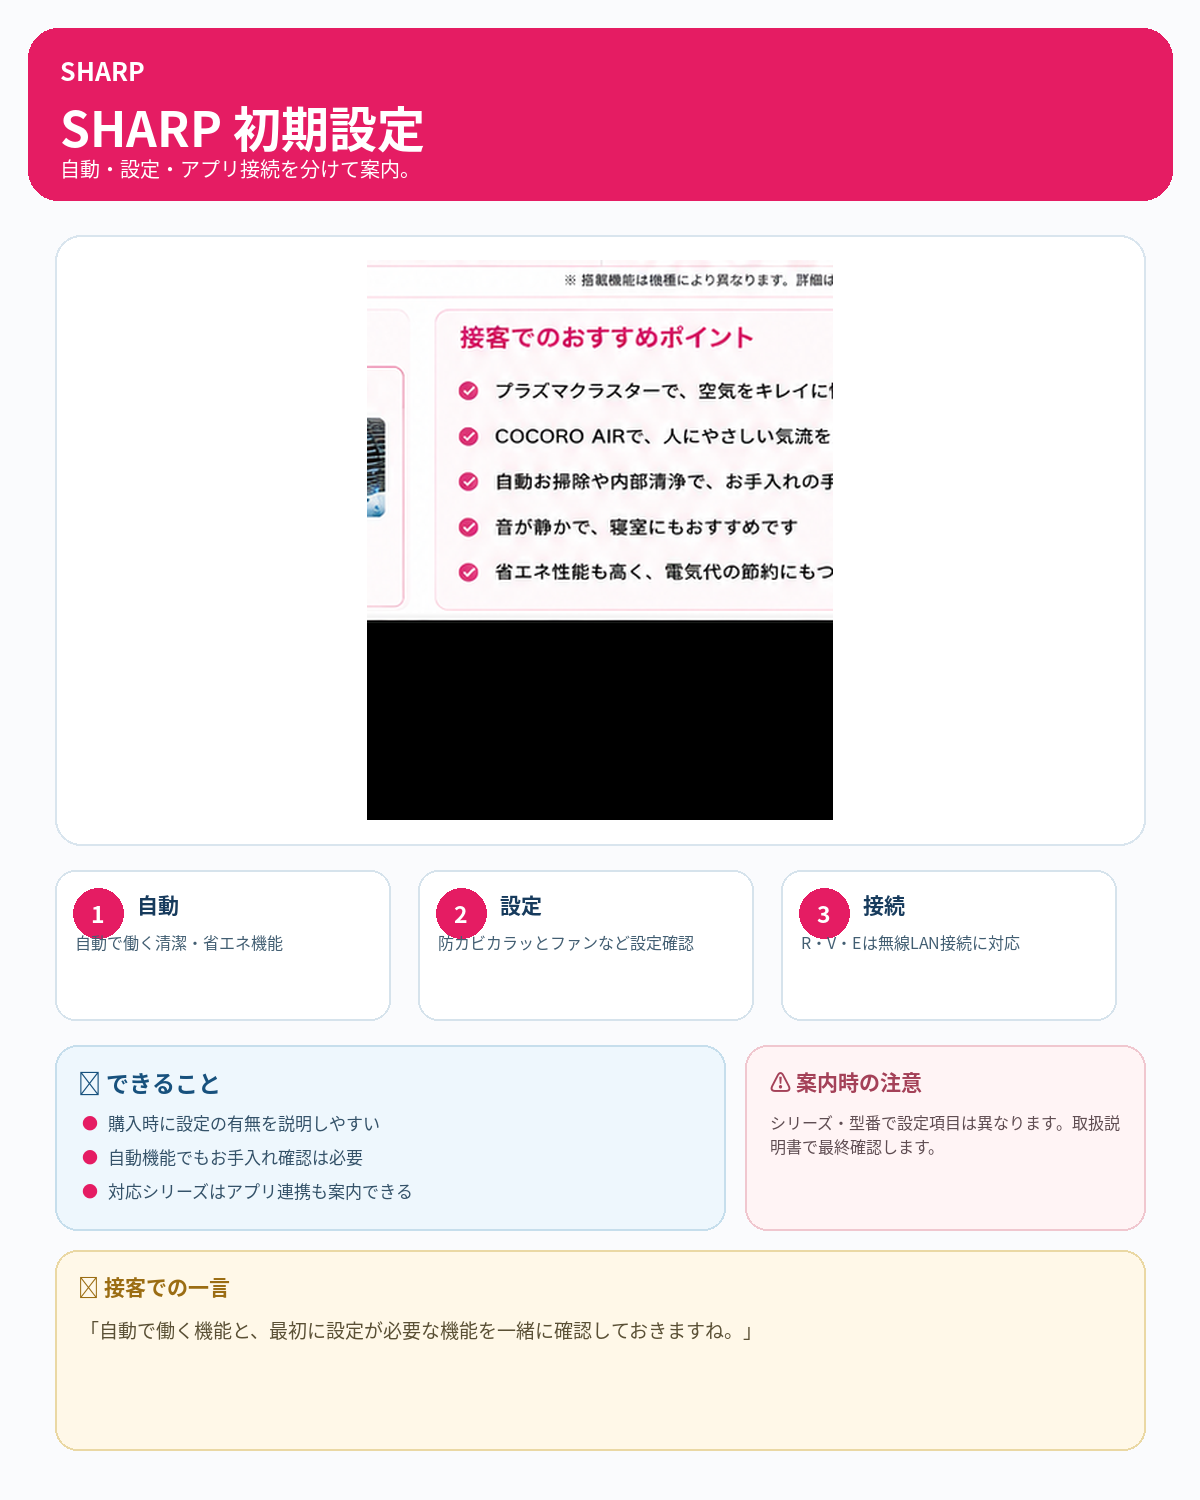
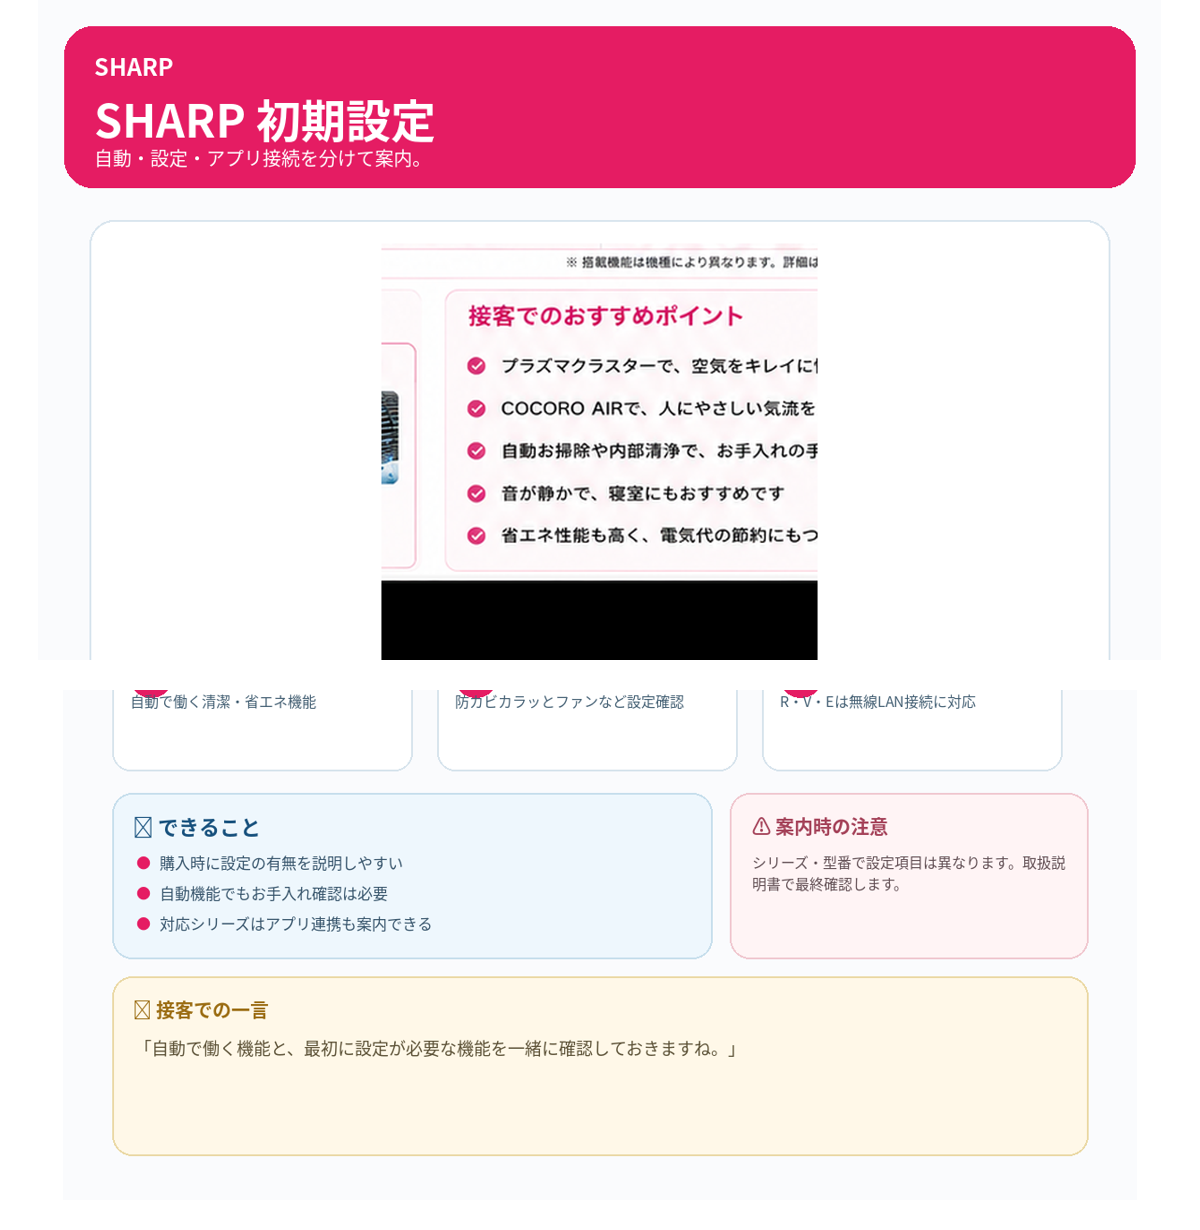
Add files via upload

Changed region(s): [[0.0, 0.0, 0.9867, 0.8959], [0.8942, 0.7415, 0.9558, 0.7724], [0.8942, 0.8033, 0.925, 0.8341]]

diff --git a/index.html b/index.html
@@ -4,7 +4,7 @@
 <meta charset="utf-8">
 <meta name="viewport" content="width=device-width,initial-scale=1,viewport-fit=cover">
 <meta name="theme-color" content="#ffffff">
-<title>エアコン販買マスター Pro Ver.6.2.4 SHARP図解ライブラリ日立級統一版</title>
+<title>エアコン販買マスター Pro Ver.6.2.6 SHARP初期設定バグ修正版</title>
 <link rel="apple-touch-icon" sizes="180x180" href="apple-touch-icon.png?v=3890">
 <link rel="icon" type="image/png" sizes="32x32" href="favicon-32.png?v=3890">
 <style>
@@ -1350,6 +1350,20 @@ html,body{max-width:100%;overflow-x:hidden}
  #visualGrid .visual-card img[src*="sharp-"]{width:100%!important}
 }
 </style>
+<style id="v626-sharp-settings-fix">
+#visualGrid .visual-card img[src*="sharp-"]{
+  width:100%!important;
+  height:auto!important;
+  min-height:0!important;
+  max-height:none!important;
+  aspect-ratio:auto!important;
+  object-fit:contain!important;
+  object-position:center top!important;
+  background:#fff!important;
+  display:block!important;
+  margin:0 auto 12px!important;
+}
+</style>
 </head>
 <body>
 <div class="app">
@@ -1360,7 +1374,7 @@ html,body{max-width:100%;overflow-x:hidden}
     <div class="brand">
       <span class="brand-snow">❄</span>
       <span>エアコン販買マスター</span>
-      <small>Ver.6.2.4 SHARP図解ライブラリ日立級統一版</small>
+      <small>Ver.6.2.6 SHARP初期設定バグ修正版</small>
     </div>
     <button class="icon-button status-button" onclick="openMission()" aria-label="今日の目標">◎</button>
   </header>
@@ -3203,7 +3217,7 @@ const VISUAL_LIBRARY=[
  {category:"sharp",file:"sharp-plasma-illustrated.png?v=624",title:"プラズマクラスター",desc:"R・V・Eの25000とDGの7000を比較。"},
  {category:"sharp",file:"sharp-series-illustrated.png?v=624",title:"SHARP 4シリーズ比較",desc:"R・V・E・DGの位置づけを図解。"},
  {category:"toshiba",file:"toshiba-settings-illustrated.png?v=617",title:"東芝 初期設定",desc:"手動選択・自動・IoLIFE接続設定を整理。"},
- {category:"sharp",file:"sharp-settings-illustrated.png?v=624",title:"SHARP 初期設定",desc:"設定が必要な機能・自動機能・アプリ接続を整理。"},
+ {category:"sharp",file:"sharp-settings-illustrated.png?v=626",title:"SHARP 初期設定",desc:"設定が必要な機能・自動機能・アプリ接続を整理。"},
  {category:"mitsubishi",file:"mitsubishi-moveeye-illustrated.png?v=623",title:"ムーブアイ",desc:"赤外線センサーで体感温度を見て快適に。"},
  {category:"mitsubishi",file:"mitsubishi-hybrid-illustrated.png?v=623",title:"ハイブリッド運転",desc:"冷房と送風を自動で切り替える。"},
  {category:"mitsubishi",file:"mitsubishi-two-point-illustrated.png?v=623",title:"2か所同時空調",desc:"離れた2人へ2つの気流を届ける。"},
